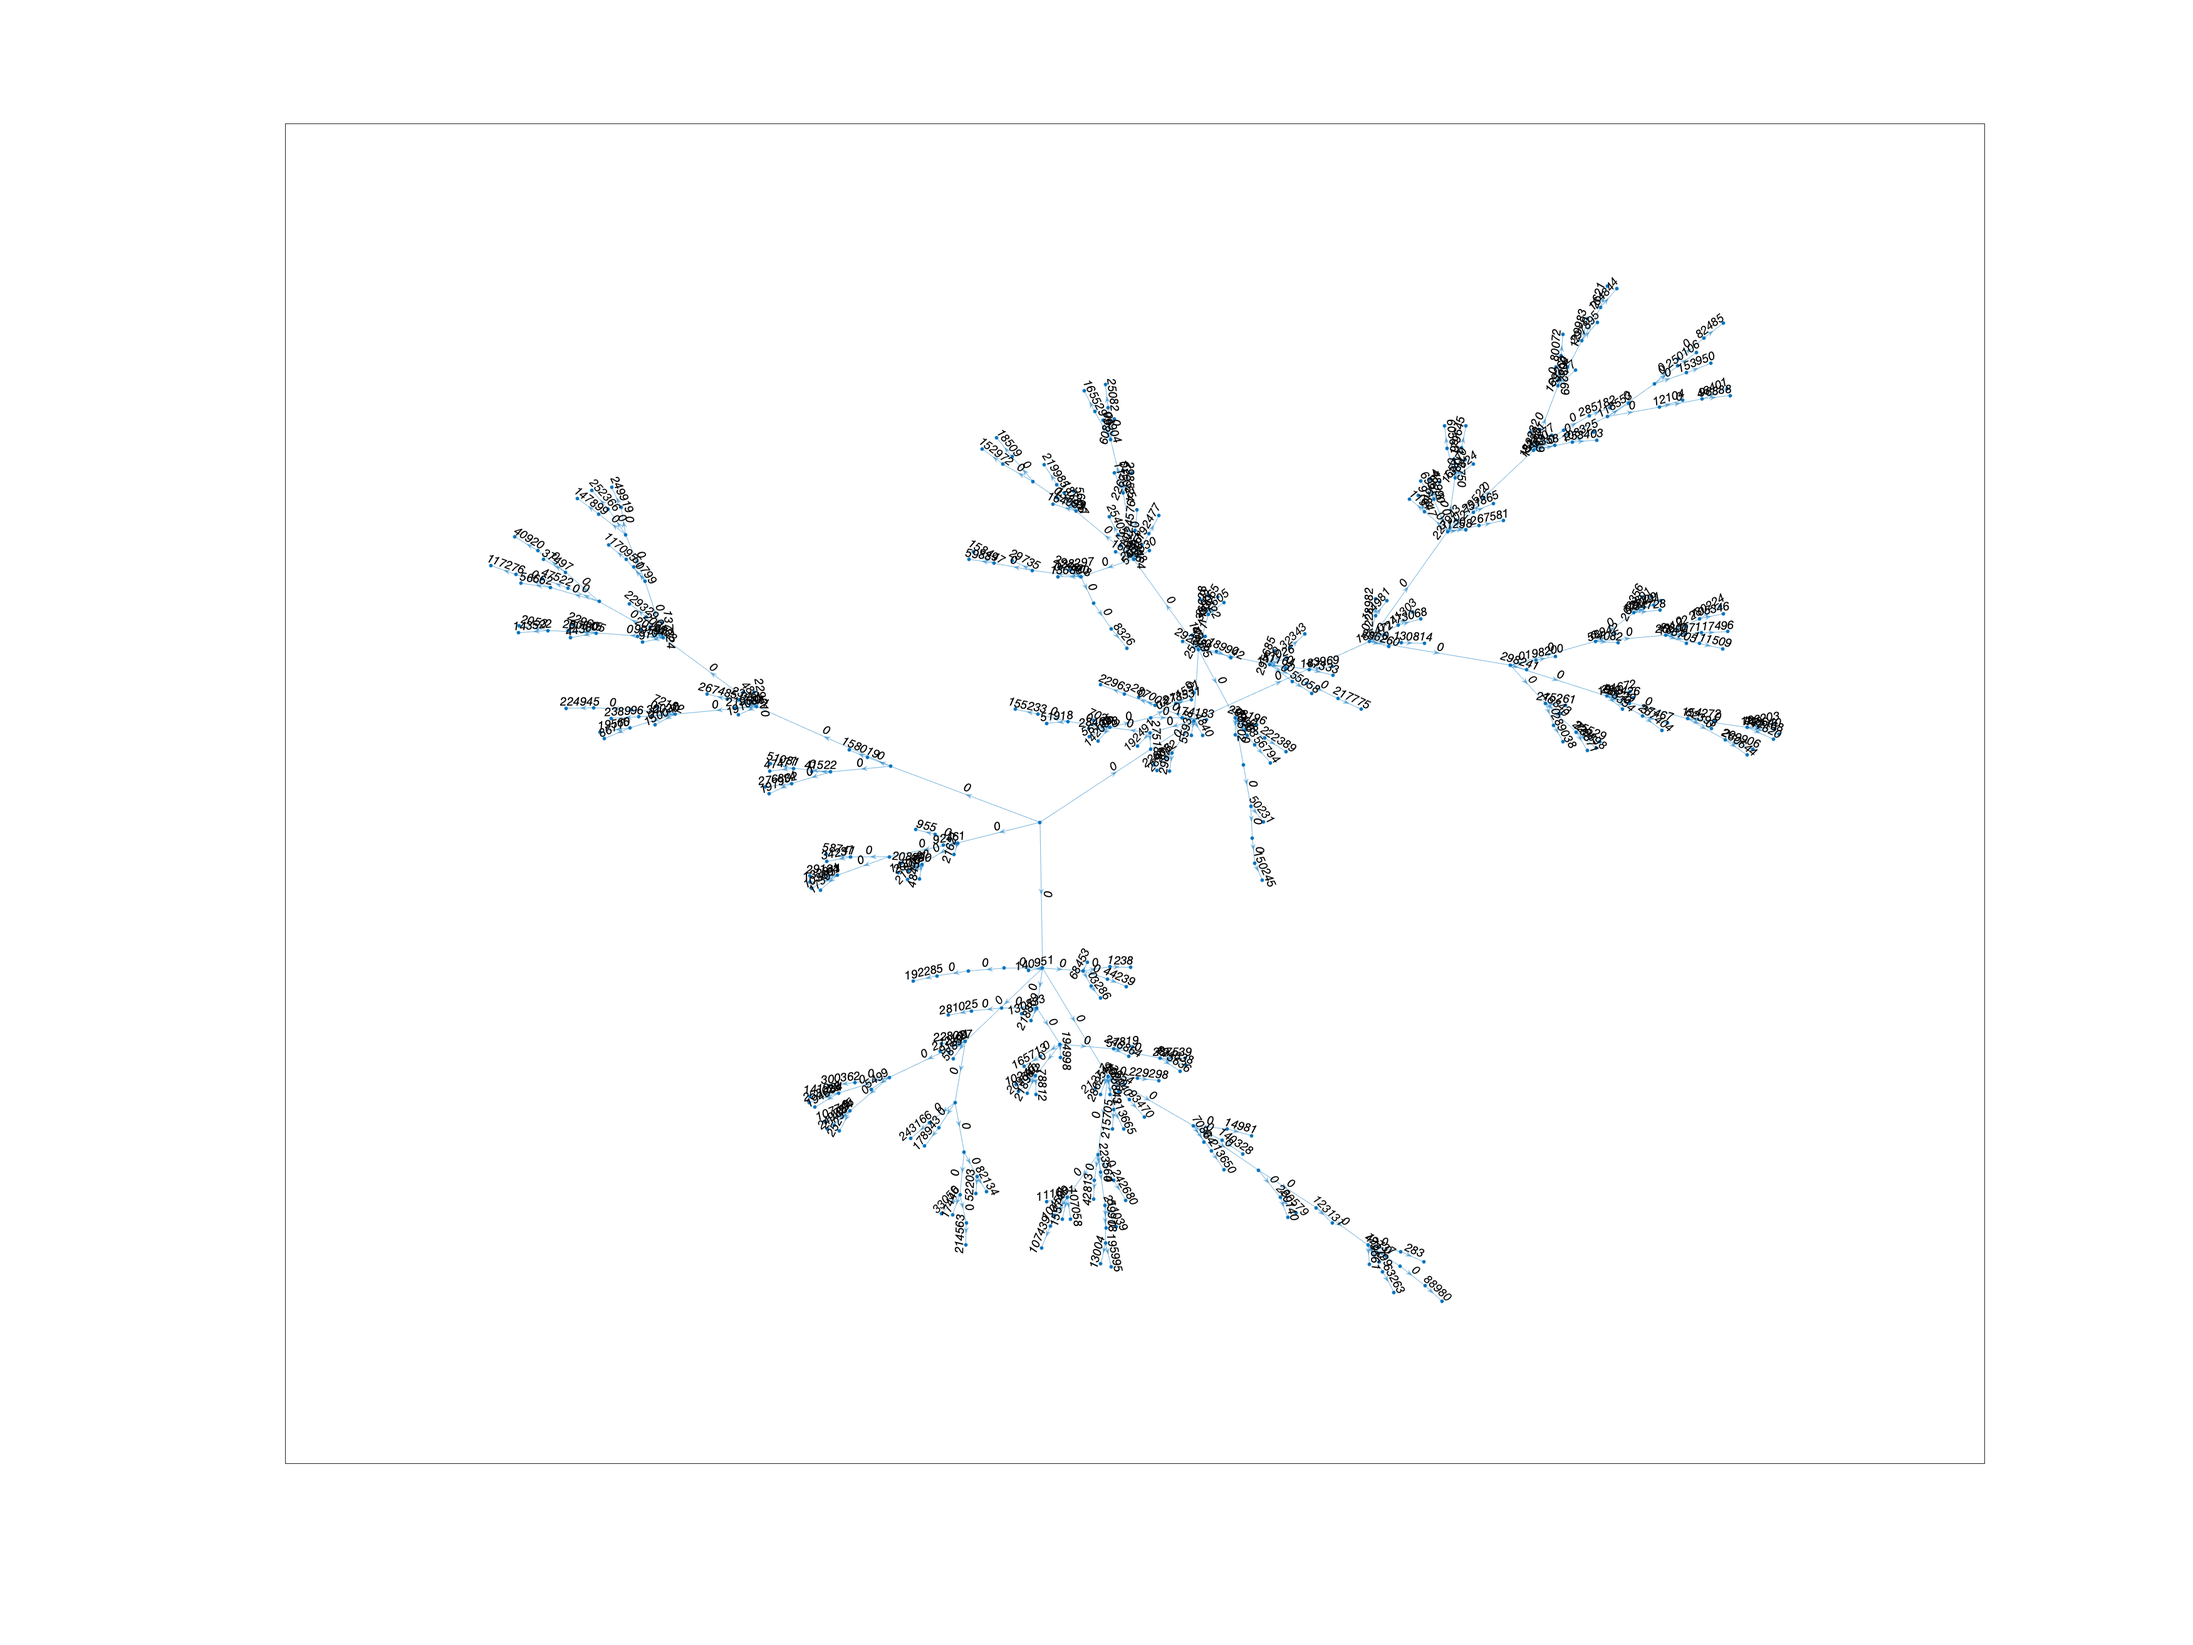
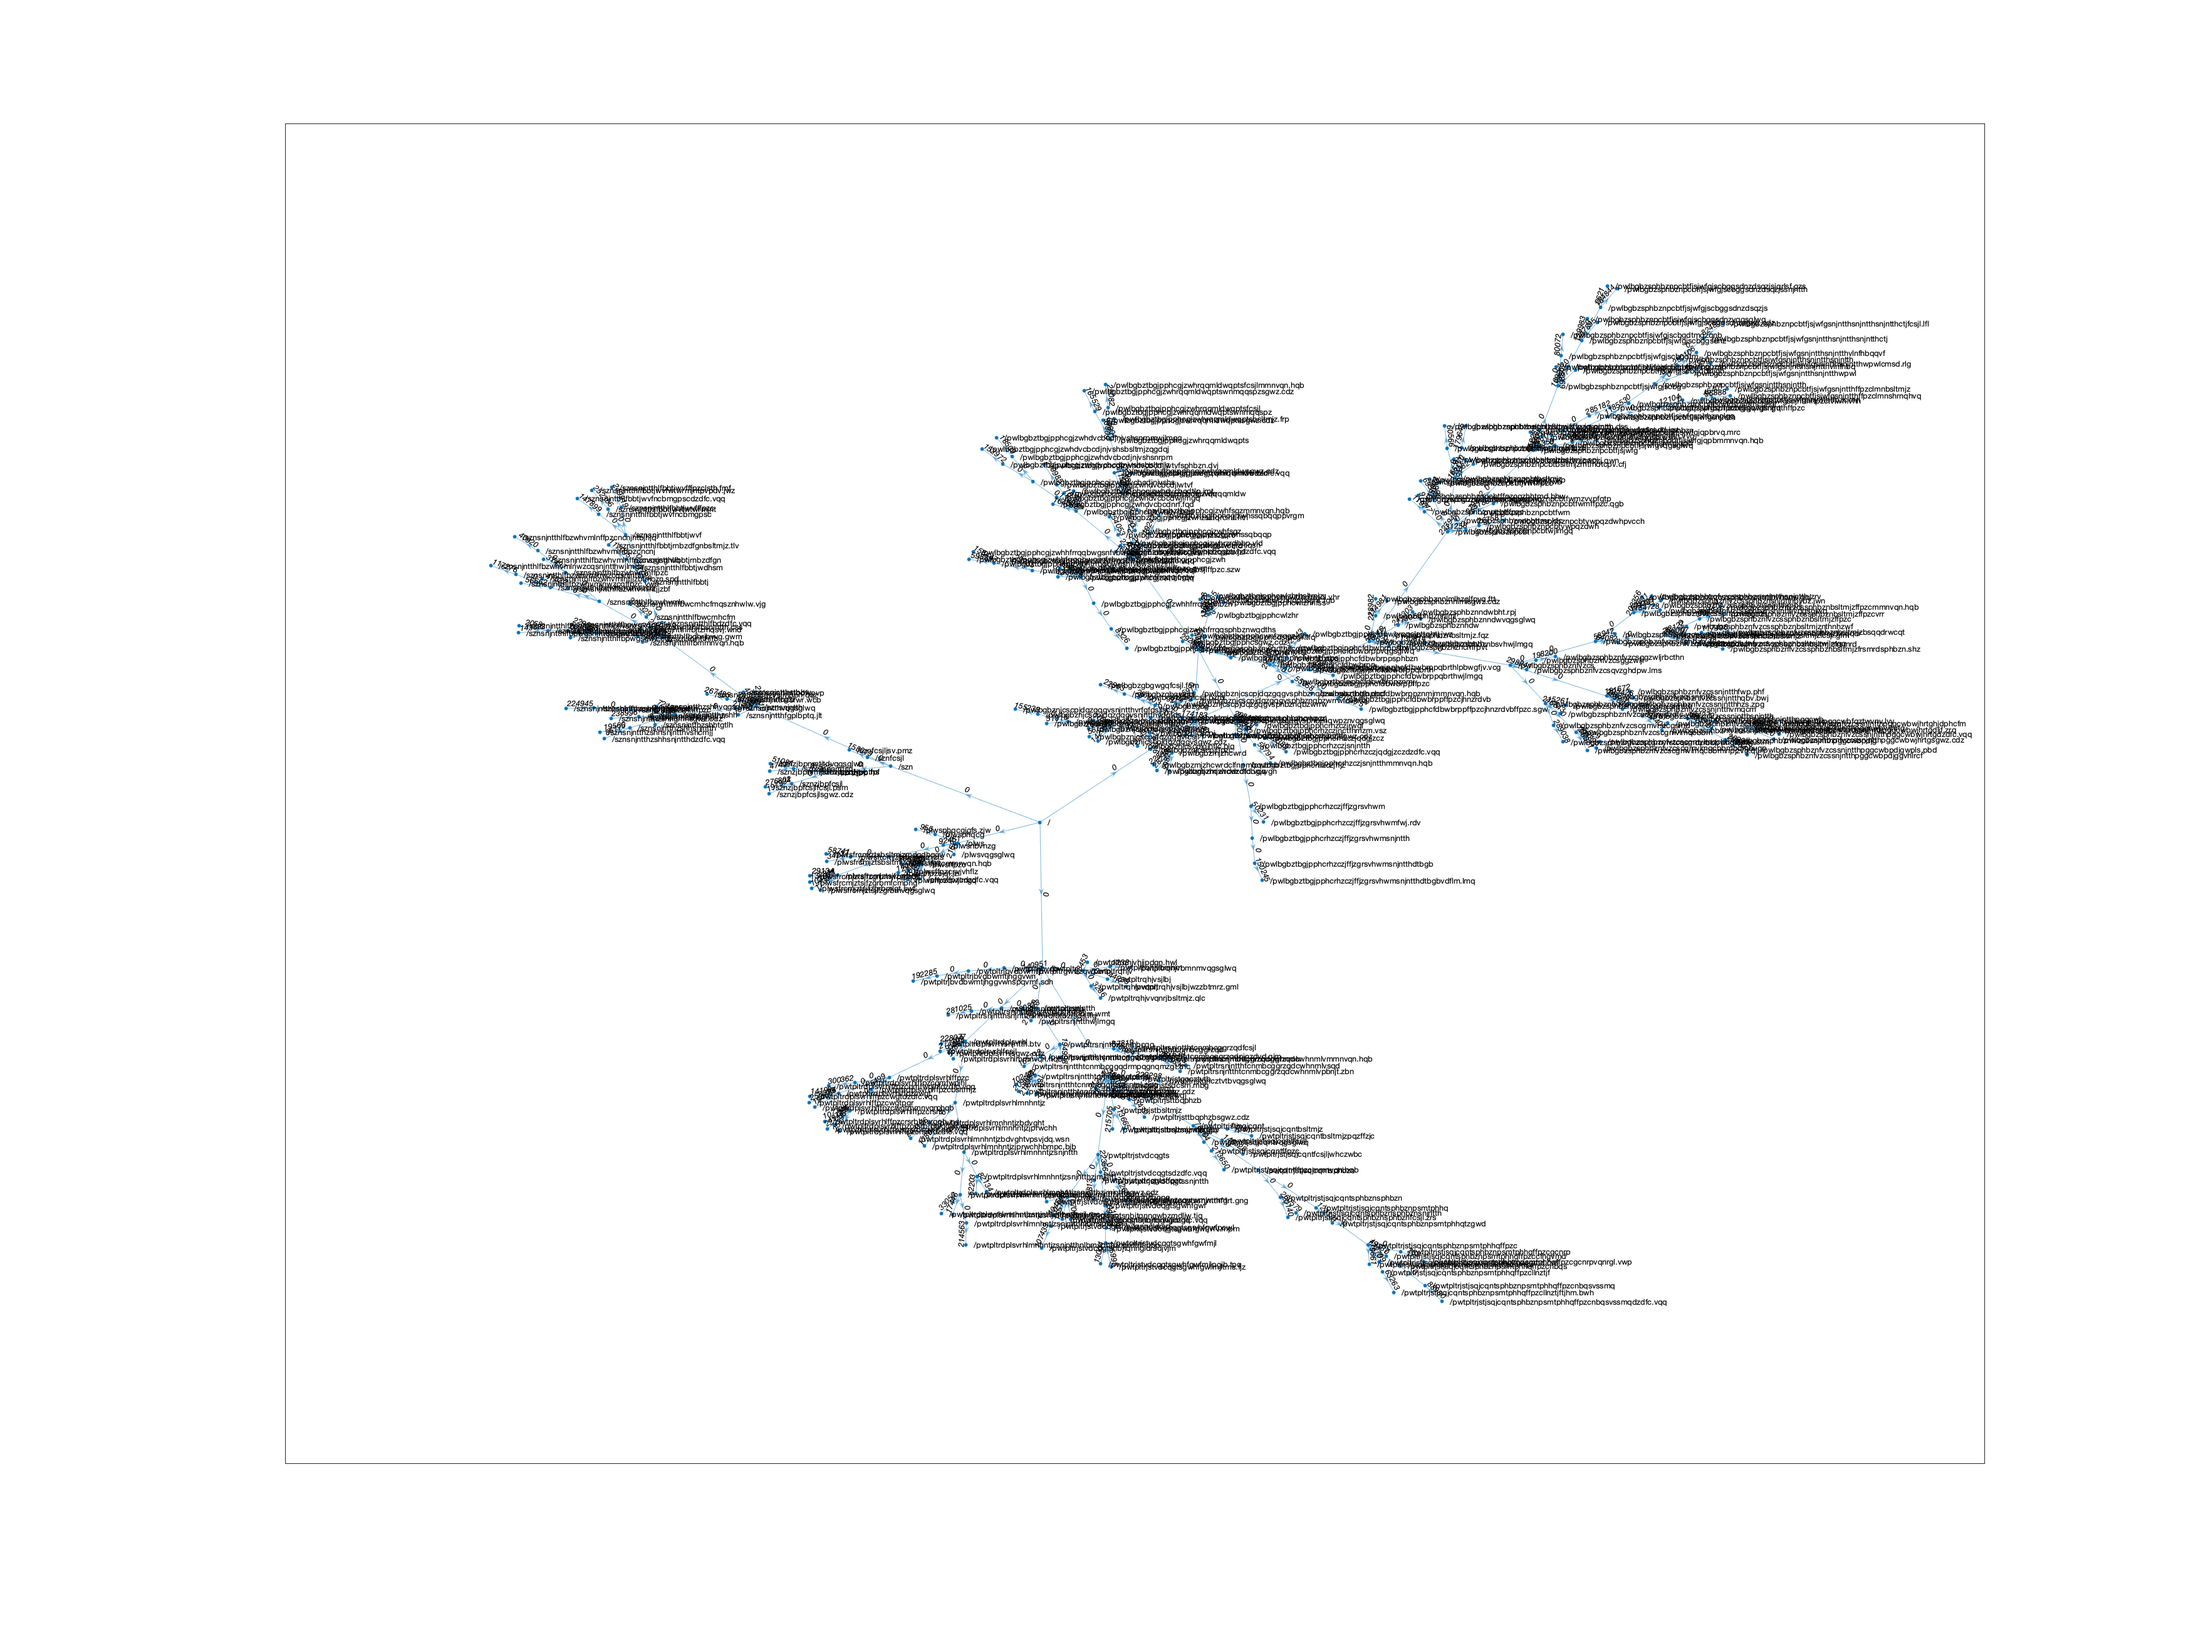
streamlined code
removed some extra I used for debugging that does not contribute to the solution

Changed region(s): [[0.436, 0.1562, 0.9031, 0.531], [0.3737, 0.5623, 0.7474, 0.8122], [0.218, 0.2811, 0.4671, 0.5623]]

diff --git a/2022/Day 07/day7puzzle1.m b/2022/Day 07/day7puzzle1.m
@@ -17,8 +17,7 @@ for idx = 1:numel(data)
             dirContent = dirContent';
         end
         dirContent(dirContent(:,1) == "dir") = "0";
-        dirContent(dirContent(:,1) ~= "0",2) = currentDir + "_" + dirContent(dirContent(:,1) ~= "0",2); % File append folder name
-        dirContent(dirContent(:,1) == "0",2) = currentDir + dirContent(dirContent(:,1) == "0",2);
+        dirContent(:,2) = currentDir + dirContent(:,2);
         G = addnode(G, dirContent(:,2));
         G = addedge(G,currentDir,dirContent(:,2),dirContent(:,1).double());
     elseif instruction(1) == "$ cd .."
@@ -29,22 +28,20 @@ for idx = 1:numel(data)
     end
 end
 
-allFolders = string(unique(G.Edges.EndNodes(:,1)));
 folderSize = zeros(numel(allFolders),1);
 for idx = 1:numel(allFolders)
     folderSize(idx) = getSizeOfFolder(G,allFolders(idx));
 end
 
-results = table(allFolders,folderSize);
-day7puzzle1result = sum(results.folderSize(results.folderSize <= 100000)) %#ok<NOPTS> 
+day7puzzle1result = sum(folderSize(folderSize <= 100000)) %#ok<NOPTS> 
 
-%%
+%% extra plotting
 f = figure(Visible="off");
-p = plot(G,'Layout','force','EdgeLabel',G.Edges.Weight);
+p = plot(G,'Layout','force','EdgeLabel',G.Edges.Weight,NodeLabel=G.Nodes.Variables);
 p.Parent.Parent.Position(1:2) = 0;
 p.Parent.Parent.Position(3:4) = p.Parent.Parent.Position(3:4)*3;
-p.NodeFontSize = 9;
-p.EdgeFontSize = 9;
+p.NodeFontSize = 6;
+p.EdgeFontSize = 6;
 p.Interpreter = 'none';
 saveas(f, 'part1.png')
 

diff --git a/2022/Day 07/day7puzzle2.m b/2022/Day 07/day7puzzle2.m
@@ -17,8 +17,7 @@ for idx = 1:numel(data)
             dirContent = dirContent';
         end
         dirContent(dirContent(:,1) == "dir") = "0";
-        dirContent(dirContent(:,1) ~= "0",2) = currentDir + "_" + dirContent(dirContent(:,1) ~= "0",2); % File append folder name
-        dirContent(dirContent(:,1) == "0",2) = currentDir + dirContent(dirContent(:,1) == "0",2);
+        dirContent(:,2) = currentDir + dirContent(:,2);
         G = addnode(G, dirContent(:,2));
         G = addedge(G,currentDir,dirContent(:,2),dirContent(:,1).double());
     elseif instruction(1) == "$ cd .."
@@ -29,20 +28,12 @@ for idx = 1:numel(data)
     end
 end
 
-allFolders = string(unique(G.Edges.EndNodes(:,1)));
 folderSize = zeros(numel(allFolders),1);
 for idx = 1:numel(allFolders)
     folderSize(idx) = getSizeOfFolder(G,allFolders(idx));
 end
+folderSize = sort(folderSize);
+options = folderSize(folderSize >= 30000000 - 70000000 + folderSize(end),:);
 
-results = table(allFolders,folderSize);
-results = sortrows(results,"folderSize");
-totalSize = 70000000;
-needed = 30000000;
-used = results.folderSize(end);
-free = totalSize - used;
-toFree = needed - free;
-options = results(results.folderSize >= toFree,:);
-
-day7puzzle2result = options.folderSize(1) %#ok<NOPTS> 
+day7puzzle2result = options(1) %#ok<NOPTS> 
 
